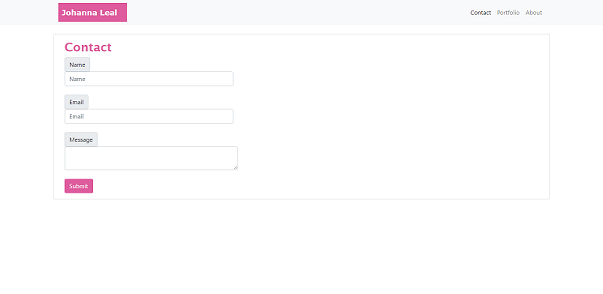
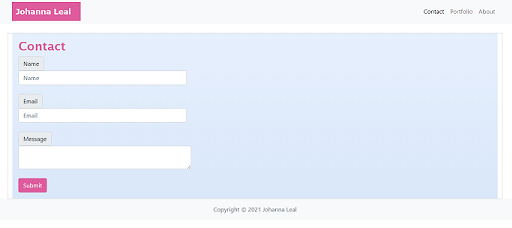
Added styling to pages

diff --git a/contact.html b/contact.html
@@ -32,7 +32,7 @@
   <br />
 
   <!-- Main Body goes in Container -->
-  <div class="container">
+  <div class="container main-container">
     <div class="row">
       <div class="card">
         <div class="card-body main-container">

diff --git a/portfolio.html b/portfolio.html
@@ -33,7 +33,7 @@
   <br />
 
   <!-- Main section -->
-  <div class="container">
+  <div class="container main-container">
     <div class="row">
         <div class="col-md-8">
           <h1 class="page-header">Portfolio</h1>

diff --git a/index.html b/index.html
@@ -35,7 +35,7 @@
   <br />
 
   <!-- Main section -->
-  <div class="container">
+  <div class="container main-container">
     <div class="row">
         <div class="col-md-8">
           <h1 class="page-header">About Me</h1>

diff --git a/Assets/css/style.css b/Assets/css/style.css
@@ -12,6 +12,12 @@
     color: #DE5C9D;
 }
 
+.main-container, 
+.card-body
+{
+    background-image: url("light-blue.png");
+}
+
 /* Name header styling */
 .name-hdr {
     font-size: 16px;
